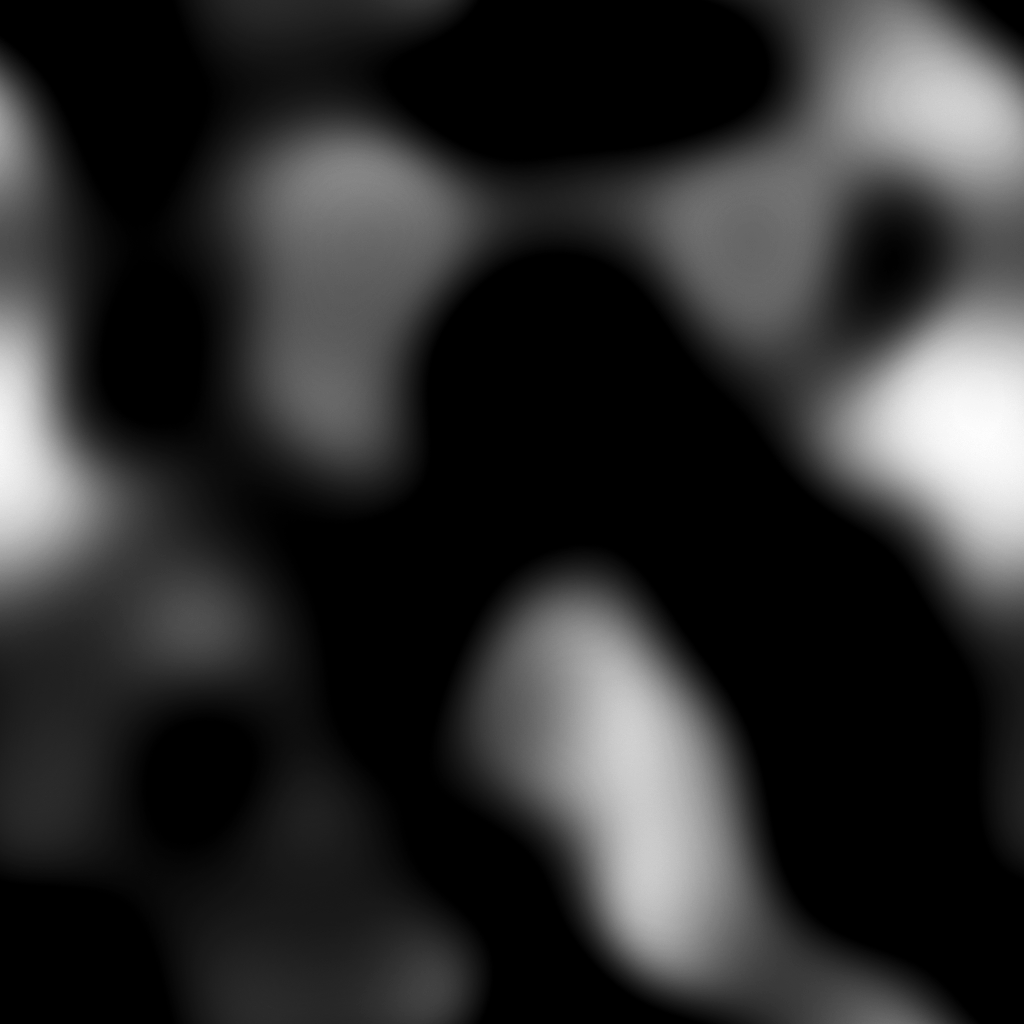
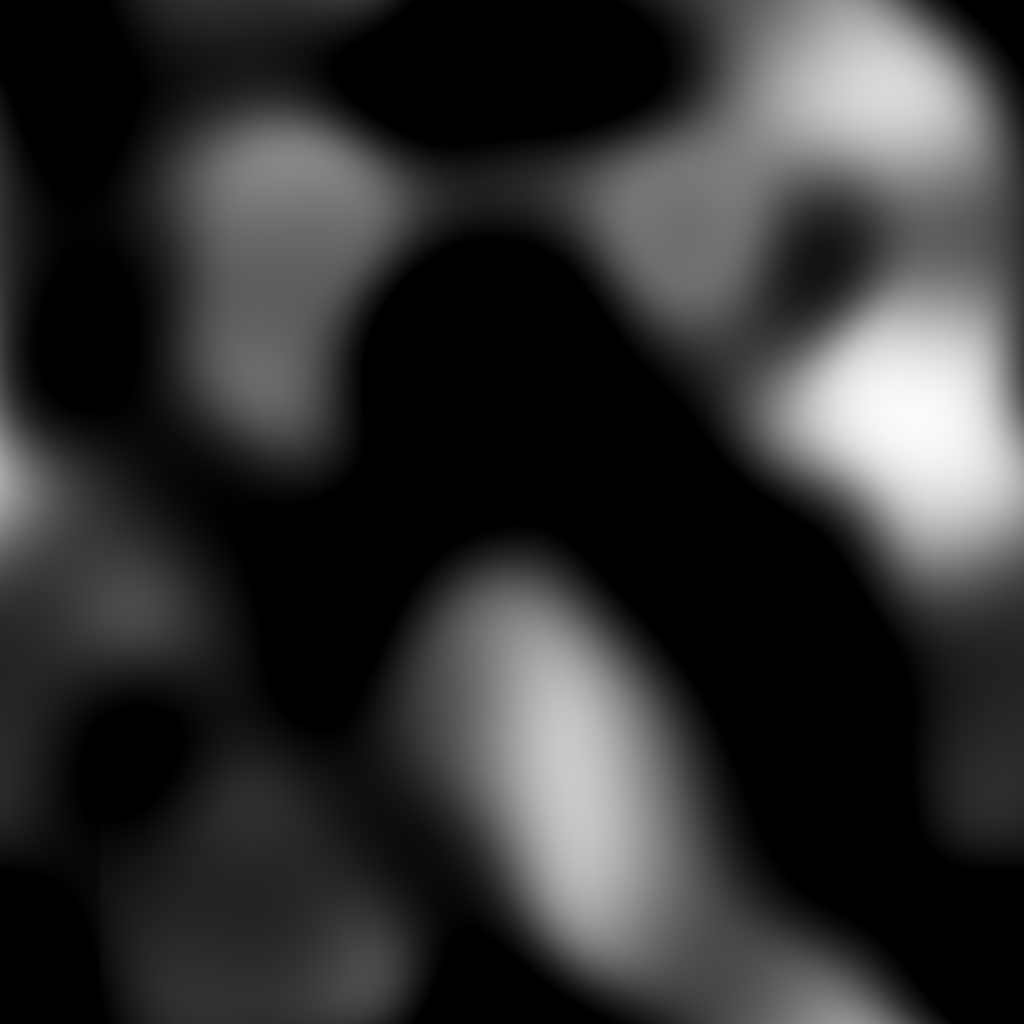
Adding more parallax to the nebula demo.

diff --git a/Source/NebulaBackground.m b/Source/NebulaBackground.m
@@ -35,6 +35,7 @@
 
 static CCShader *ShaderMode = nil;
 
+static CCTexture *StarfieldTexture = nil;
 static CCTexture *NebulaTexture = nil;
 static CCTexture *DepthMap = nil;
 static CCTexture *DistortionTexture = nil;
@@ -45,13 +46,12 @@ static CCTexture *DistortionTexture = nil;
 {
 	ShaderMode = [CCShader shaderNamed:@"Nebula"];
 	
-	// This is the purple-ish texture for the nebula.
-	NebulaTexture = [CCTexture textureWithFile:@"Nebula.png"];
-	NebulaTexture.contentScale = 2.0;
+	StarfieldTexture = [CCTexture textureWithFile:@"Starfield.png"];
+	StarfieldTexture.contentScale = 2.0;
+	StarfieldTexture.texParameters = &(ccTexParams){GL_LINEAR, GL_LINEAR, GL_REPEAT, GL_REPEAT};
 	
-	// We want to make the texture repeate endlessly, but it's not exposed by the public API in 3.x...
-	// This is not generally safe to do with cached textures.
-	// Cocos2D 4.0 will fix the API problems however.
+	NebulaTexture = [CCTexture textureWithFile:@"NebulaClouds.png"];
+	NebulaTexture.contentScale = 2.0;
 	NebulaTexture.texParameters = &(ccTexParams){GL_LINEAR, GL_LINEAR, GL_REPEAT, GL_REPEAT};
 	
 	// This is a grayscale texture that holds how far away the background is.
@@ -72,22 +72,22 @@ static CCTexture *DistortionTexture = nil;
 	
 	CCShader *shaders[] = {
 		[CCShader shaderNamed:@"Nebula"],
-		[CCShader positionTextureColorShader],
-		[CCShader shaderNamed:@"NebulaDebug"],
+//		[CCShader positionTextureColorShader],
+//		[CCShader shaderNamed:@"NebulaDebug"],
 	};
 	ShaderMode = shaders[mode];
 	
 	NSString *names[] = {
 		@"On",
-		@"Off",
-		@"Debug",
+//		@"Off",
+//		@"Debug",
 	};
 	return names[mode];
 }
 
 -(id)init
 {
-	if((self = [super initWithTexture:NebulaTexture])){
+	if((self = [super initWithTexture:StarfieldTexture])){
 		self.anchorPoint = CGPointZero;
 		
 		// Disable alpha blending to save some fillrate.
@@ -113,7 +113,10 @@ static CCTexture *DistortionTexture = nil;
 		self.shader = ShaderMode;
 		
 		// The values are read by the shaders (Nebula.fsh/vsh)
-		self.shaderUniforms[@"u_ParallaxAmount"] = @(0.09);
+		self.shaderUniforms[@"u_StarfieldDepth"] = @(1.5);
+		self.shaderUniforms[@"u_NebulaDepth1"] = @(0.50);
+		self.shaderUniforms[@"u_NebulaDepth2"] = @(0.25);
+		self.shaderUniforms[@"u_NebulaTexture"] = NebulaTexture;
 		self.shaderUniforms[@"u_DepthMap"] = DepthMap;
 		self.shaderUniforms[@"u_DistortionMap"] = _distortionMap.texture;
 		

diff --git a/Source/GameScene.m b/Source/GameScene.m
@@ -489,7 +489,7 @@
 	distortion.position = pos;
 	[_background.distortionNode addChild:distortion];
 	
-	[self drawGlow:pos scale:20.0];
+	[self drawGlow:pos scale:7.0];
 	
 	[self scheduleBlock:^(CCTimer *timer) {
 		[distortion removeFromParent];
